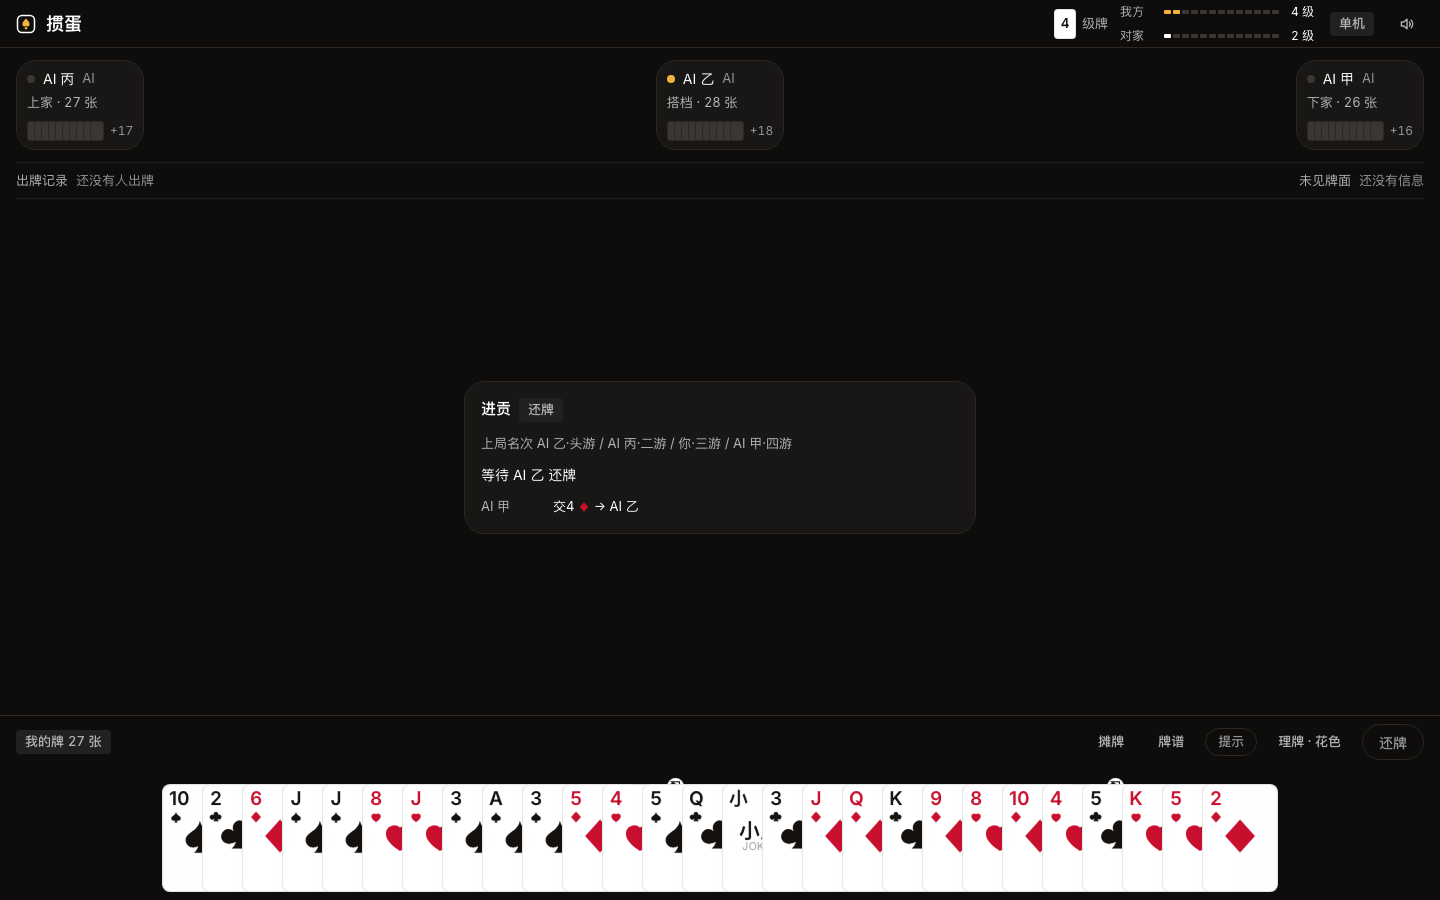
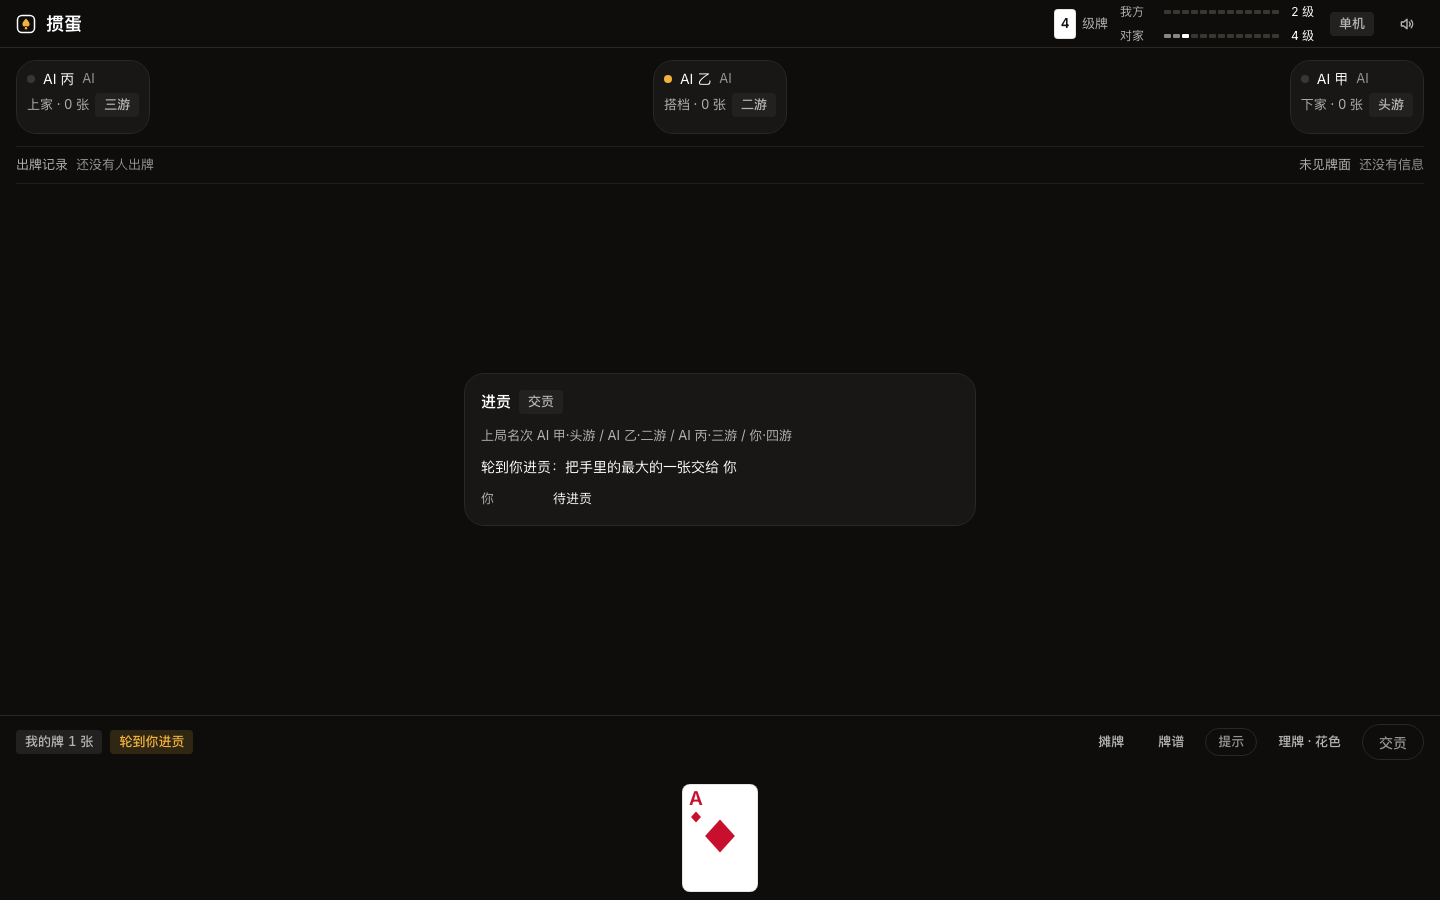
fix(ai): 难度对打验证——原来「简单档」其实跟普通档一样强
写了「难度对打」脚本：座位 0 用一档 AI、另外三个座位用另一档，看座位 0 所在队
胜率。一测就发现问题：普通 vs 简单只有 48%——等于抛硬币，简单档其实没比普通档弱。

改法：
- 简单档：拆牌代价直接归零（原来只打三折，差别不大）+ 领出抖动从 6 加到 10；
- 难档：加「对手只剩一张时领大牌」——他多半压不动，别把小牌送出去让他走完
  （这条把难 vs 普通从 53% 提到 56%）。

试过但回退的两条：跟牌也算风险（难 vs 普通掉到 48%，因为风险让 AI 宁可过牌也不压）；
把风险权重从 12 提到 30（没提升）。

现在实测（250 场）：难 vs 简单 74%，普通 vs 简单 72%，难 vs 普通 56%。
加了单测钉住这个阶梯（普通与难档没有随机抖动，固定种子的结果确定，可当断言）。

验收：151 tests 全绿（新增 2 条难度对打）；40 场压力跑 0 问题；九条真浏览器冒烟全过；
inspect 0 FAIL 0 WARN，lint 0 FAIL，oxlint 0 warning。

diff --git a/src/core/ai.ts b/src/core/ai.ts
@@ -66,7 +66,7 @@ function pickCheapest(
   lead: boolean,
   level: number,
   risk?: (m: Combo) => number,
-  opts?: { breakScale?: number; jitter?: number },
+  opts?: { breakScale?: number; jitter?: number; blockLead?: boolean },
 ): Combo | null {
   let best: Combo | null = null
   let bestCost = Infinity
@@ -77,6 +77,7 @@ function pickCheapest(
       (lead ? (LEAD_BONUS[m.type] ?? 0) : SPECIAL.has(m.type) ? SPECIAL_FOLLOW_COST : 0) +
       breakPenalty(m, shape, level) * breakScale +
       (risk ? risk(m) * RISK_COST : 0) +
+      (opts?.blockLead && m.type === ComboType.SINGLE ? (14 - m.rank) * 20 : 0) +
       (opts?.jitter ? (Math.random() - 0.5) * opts.jitter : 0)
     if (cost < bestCost || (cost === bestCost && best !== null && m.rank < best.rank)) {
       best = m
@@ -174,14 +175,16 @@ export function aiMove(st: GameState, seat: Seat): Action {
   const shape = handShape(hand, st.handLevel)
   // 难度：0 简单（拆牌代价打折、选择带随机）· 1 普通 · 2 难（加记牌风险）
   const level = st.aiLevel ?? 1
-  const breakScale = level === 0 ? 0.35 : 1
-  const jitter = level === 0 ? 6 : 0
+  const breakScale = level === 0 ? 0 : 1
+  const jitter = level === 0 ? 10 : 0
   const mine = teamOf(seat)
   const oppMin = Math.min(
     ...st.players.filter((p) => teamOf(p.seat) !== mine).map((p) => p.hand.length),
   )
   // 紧急：对手只剩 1-2 张（要抢头游），或我只剩一张（必须打完）
   const urgent = oppMin <= 2 || hand.length <= 1
+  // 难档：对手只剩一张时，领出改用大牌——他多半压不动，别把小牌送出去让他走完
+  const blockLead = level >= 2 && oppMin <= 1
 
   if (!table) {
     // 记牌：算得出对手可能压得动，这一手就贵一点
@@ -195,7 +198,7 @@ export function aiMove(st: GameState, seat: Seat): Action {
       true,
       st.handLevel,
       level >= 2 && possible ? (m) => beatRisk(m, possible, st, seat) : undefined,
-      { breakScale, jitter },
+      { breakScale, jitter, blockLead },
     )
     if (!best) return { kind: 'pass', seat }
     return { kind: 'play', seat, cards: best.cards.map((c) => c.id) }
@@ -204,7 +207,7 @@ export function aiMove(st: GameState, seat: Seat): Action {
   // 队友坐庄 → 让他打
   if (teamOf(table.seat) === mine) return { kind: 'pass', seat }
 
-  const best = pickCheapest(moves, shape, false, st.handLevel, undefined, { breakScale })
+  const best = pickCheapest(moves, shape, false, st.handLevel, undefined, { breakScale, blockLead })
   if (!best) return { kind: 'pass', seat }
 
   // 只剩炸弹能压，而对手还早 → 留着当后手

diff --git a/src/core/ai.test.ts b/src/core/ai.test.ts
@@ -1,7 +1,7 @@
 import { describe, expect, it } from 'vitest'
 import { sortCards } from './cards'
 import type { Card } from './cards'
-import { newGame, step, autoplay, legalMoves } from './engine'
+import { newGame, nextRound, step, autoplay, legalMoves } from './engine'
 import type { GameState, Seat } from './engine'
 import { aiMove, aiTributeMove } from './ai'
 import { mk } from './testutil'
@@ -273,4 +273,56 @@ describe('AI 难度', () => {
       expect(ranks).toEqual([9]) // 拆掉对 9 出一张 9
     }
   })
+})
+
+/**
+ * 难度对打：座位 0 一档、另外三个座位另一档，看座位 0 所在队的胜率。
+ * 普通与难档没有随机抖动，结果确定，可以当断言用（简单档有抖动，只看趋势）。
+ */
+function duel(levelA: 0 | 1 | 2, levelB: 0 | 1 | 2, matches: number): { wins: number; rounds: number } {
+  let wins = 0
+  let rounds = 0
+  for (let seed = 1; seed <= matches; seed++) {
+    let st = nextRound(null, { seed, names: ['A', 'B', 'C', 'D'], isBot: [true, true, true, true] })
+    let guard = 0
+    while (guard++ < 200000) {
+      if (st.phase === 'playing') {
+        const seat = st.turn
+        const saved = st.aiLevel
+        st.aiLevel = seat === 0 ? levelA : levelB
+        const mv = aiMove(st, seat)
+        st.aiLevel = saved
+        if (!mv) break
+        st = step(st, mv)
+        continue
+      }
+      if (st.phase === 'tribute') {
+        const mv = aiTributeMove(st, st.turn)
+        if (!mv) break
+        st = step(st, mv)
+        continue
+      }
+      if (st.phase === 'ended') {
+        rounds++
+        const winner = st.players.find((p) => p.finishOrder === 0)!
+        if (winner.seat === 0 || winner.seat === 2) wins++
+        break
+      }
+      break
+    }
+  }
+  return { wins, rounds }
+}
+
+describe('AI 难度阶梯（对打验证）', () => {
+  it('难档应该比普通档强（固定种子，结果确定）', () => {
+    const r = duel(2, 1, 60)
+    expect(r.rounds).toBeGreaterThan(50)
+    expect(r.wins / r.rounds).toBeGreaterThan(0.5)
+  }, 120_000)
+
+  it('普通档应该比简单档强', () => {
+    const r = duel(1, 0, 40)
+    expect(r.wins / r.rounds).toBeGreaterThan(0.6)
+  }, 120_000)
 })

diff --git a/src/ui/Lobby.tsx b/src/ui/Lobby.tsx
@@ -29,7 +29,7 @@ const MOTIF = (() => {
 const AI_LEVELS: { v: 0 | 1 | 2; label: string; hint: string }[] = [
   { v: 0, label: '简单', hint: '会拆牌、偶尔想不起' },
   { v: 1, label: '普通', hint: '会算牌型，不算剩余牌' },
-  { v: 2, label: '难', hint: '算剩余牌，压得动就压' },
+  { v: 2, label: '难', hint: '算剩余牌，还会封对手' },
 ]
 
 export function Lobby() {

diff --git a/ralph/LOG.md b/ralph/LOG.md
@@ -376,3 +376,17 @@
   提醒人补单测而不是假装覆盖了。
 - 验收：149 tests 全绿（新增 1 条覆盖率断言）；40 场 683 局 0 问题；
   九条真浏览器冒烟全过；inspect 0 FAIL 0 WARN，lint 0 FAIL，oxlint 0 warning。
+
+## S32 AI 难度对打验证（发现简单档是假的） done
+- 写了「难度对打」脚本：座位 0 用一档 AI、另外三个座位用另一档，看座位 0 所在队胜率。
+  一测就发现问题：**普通 vs 简单只有 48%——等于抛硬币，简单档其实没比普通档弱**。
+- 改法：
+  - 简单档：拆牌代价直接归零（原来只打三折，所以差别不大）+ 领出抖动从 6 加到 10；
+  - 难档：加「对手只剩一张时领大牌」——他多半压不动，别把小牌送出去让他走完
+    （这条把难 vs 普通从 53% 提到 56%）。
+  - 试过但**回退**的两条：跟牌也算风险（难 vs 普通掉到 48%，因为风险让 AI 宁可过牌也不压）；
+    把风险权重从 12 提到 30（没提升）。
+- 现在的实测（250 场）：难 vs 简单 74%，普通 vs 简单 72%，难 vs 普通 56%。
+- 加了单测钉住这个阶梯（普通与难档没有随机抖动，固定种子的结果确定，可当断言）。
+- 验收：151 tests 全绿（新增 2 条难度对打）；40 场压力跑 0 问题；
+  九条真浏览器冒烟全过；inspect 0 FAIL 0 WARN，lint 0 FAIL，oxlint 0 warning。
